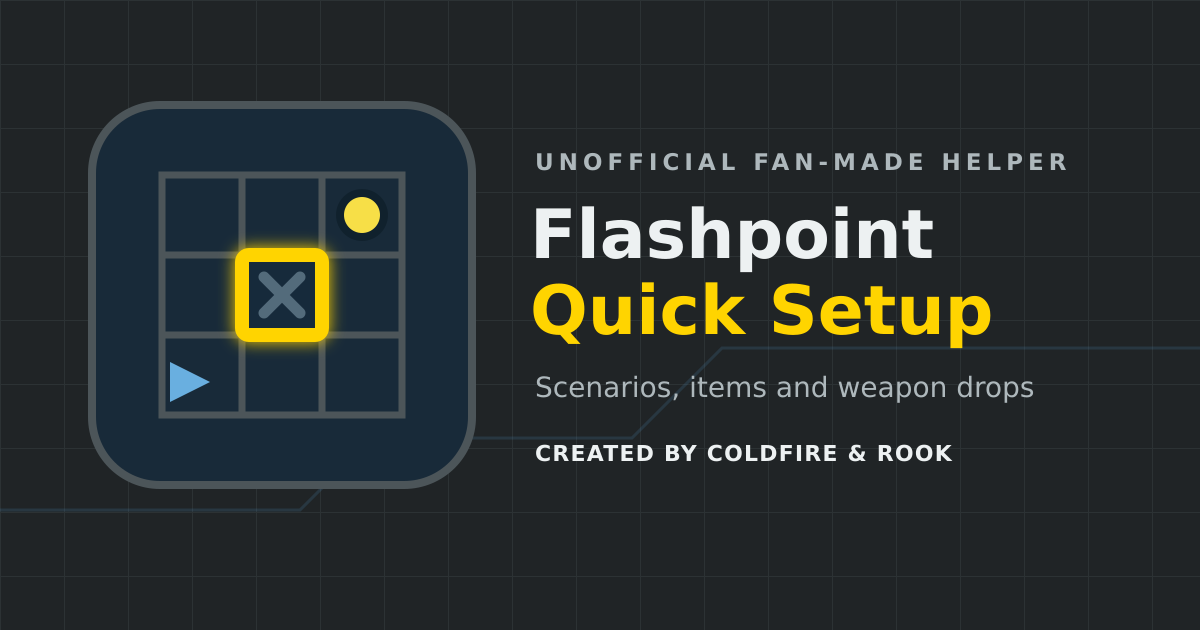
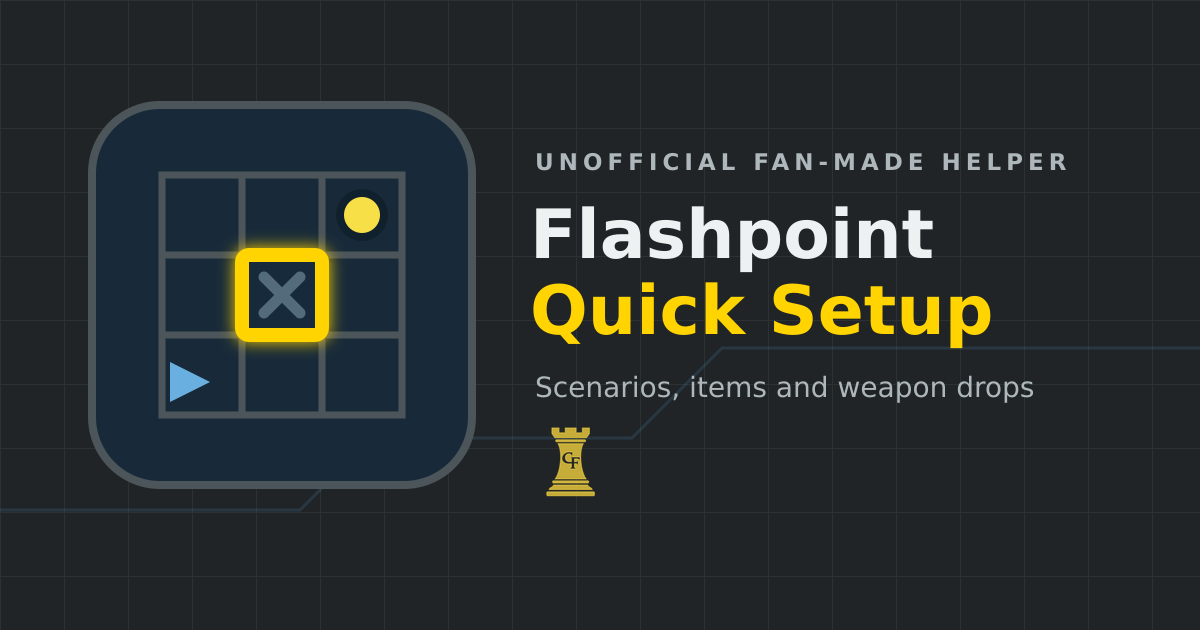
Add ColdFire and Rook creator mark

Changed region(s): [[0.4317, 0.6635, 0.8017, 0.8143]]

diff --git a/styles.css b/styles.css
@@ -509,8 +509,8 @@ summary:focus-visible { outline: 3px solid #fff; outline-offset: 3px; }
 
 .project-footer {
   width: min(100%, 590px);
-  margin: 28px auto 0;
-  padding-top: 16px;
+  margin: 32px auto 0;
+  padding-top: 18px;
   border-top: 1px solid rgba(174, 184, 188, 0.2);
   color: var(--muted);
   font-size: 0.76rem;
@@ -520,17 +520,25 @@ summary:focus-visible { outline: 3px solid #fff; outline-offset: 3px; }
 .project-footer p { margin: 4px 0; }
 .project-footer strong { color: var(--text); }
 
+.creator-mark {
+  display: block;
+  width: 68px;
+  height: auto;
+  margin: 0 auto 16px;
+  opacity: 0.9;
+}
+
+.footer-summary {
+  color: rgba(174, 184, 188, 0.86);
+  font-size: 0.72rem;
+}
+
 .release-meta {
   color: #c7d0d3;
   font-variant-numeric: tabular-nums;
 }
 
-.creator-credit {
-  color: rgba(237, 241, 242, 0.72);
-  letter-spacing: 0.04em;
-}
-
-.about-helper { margin-top: 10px; }
+.about-helper { margin-top: 12px; }
 .about-helper summary {
   width: max-content;
   max-width: 100%;
@@ -599,7 +607,8 @@ summary:focus-visible { outline: 3px solid #fff; outline-offset: 3px; }
   .weapon-table td { padding: 3px 4px; }
   .reroll-controls .button,
   .mode-buttons .button { flex: 1 1 135px; }
-  .project-footer { margin-top: 24px; padding-inline: 8px; }
+  .project-footer { margin-top: 30px; padding-inline: 8px; }
+  .creator-mark { width: 62px; margin-bottom: 14px; }
   .update-banner {
     right: 8px;
     bottom: 8px;

diff --git a/index.html b/index.html
@@ -112,12 +112,12 @@
     </details>
 
     <footer class="project-footer">
-      <p><strong>Unofficial fan-made setup helper.</strong> Not affiliated with Microsoft, Halo Studios or Mantic Games.</p>
-      <p>Setup only — check the current official rules for gameplay and scoring.</p>
+      <img class="creator-mark" src="creator-mark.png" alt="ColdFire and Rook">
+      <p class="footer-summary"><strong>Unofficial fan-made setup helper.</strong> Setup only.</p>
       <p class="release-meta">App v2.1 · Scenario layouts: pre-v1.5 sources · v1.5 review pending</p>
-      <p class="creator-credit">Created by ColdFire &amp; Rook</p>
       <details class="about-helper">
-        <summary>About, house rule &amp; installation</summary>
+        <summary>Legal, rules &amp; installation</summary>
+        <p>Not affiliated with Microsoft, Halo Studios or Mantic Games. Check the current official rules for gameplay and scoring.</p>
         <p>Items use a casual house rule that places all eight in different legal cubes; official independent rolls can produce duplicates.</p>
         <p>To install the app, open your browser menu and choose <strong>Add to Home screen</strong> or <strong>Install app</strong>.</p>
       </details>

diff --git a/service-worker.js b/service-worker.js
@@ -1,4 +1,4 @@
-const CACHE_NAME = "flashpoint-quick-setup-v16";
+const CACHE_NAME = "flashpoint-quick-setup-v17";
 const APP_FILES = [
   "./",
   "./index.html",
@@ -9,6 +9,7 @@ const APP_FILES = [
   "./icon-512.png",
   "./icon-maskable-512.png",
   "./apple-touch-icon.png",
+  "./creator-mark.png",
   "./share-card.png",
   "./src/app.js",
   "./src/scenarios.js",

diff --git a/README.md b/README.md
@@ -4,7 +4,7 @@ A fast, mobile-friendly setup helper for core and selected standard-board games 
 
 This is an unofficial fan-made setup helper and is not affiliated with Microsoft, Halo Studios or Mantic Games. It covers setup only; use the current official rules for gameplay, scoring and organised play.
 
-Created by **ColdFire & Rook**.
+<p align="center"><img src="creator-mark.png" alt="ColdFire & Rook" width="72"></p>
 
 ## Included scenarios
 
